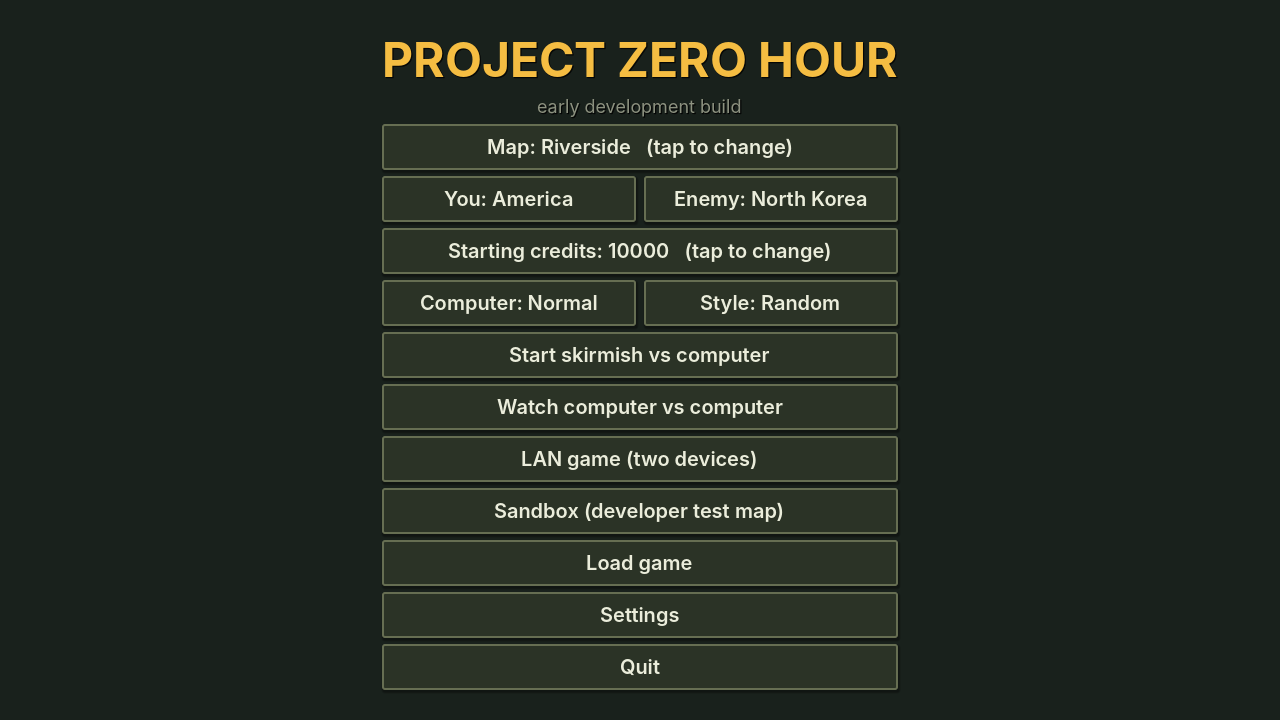
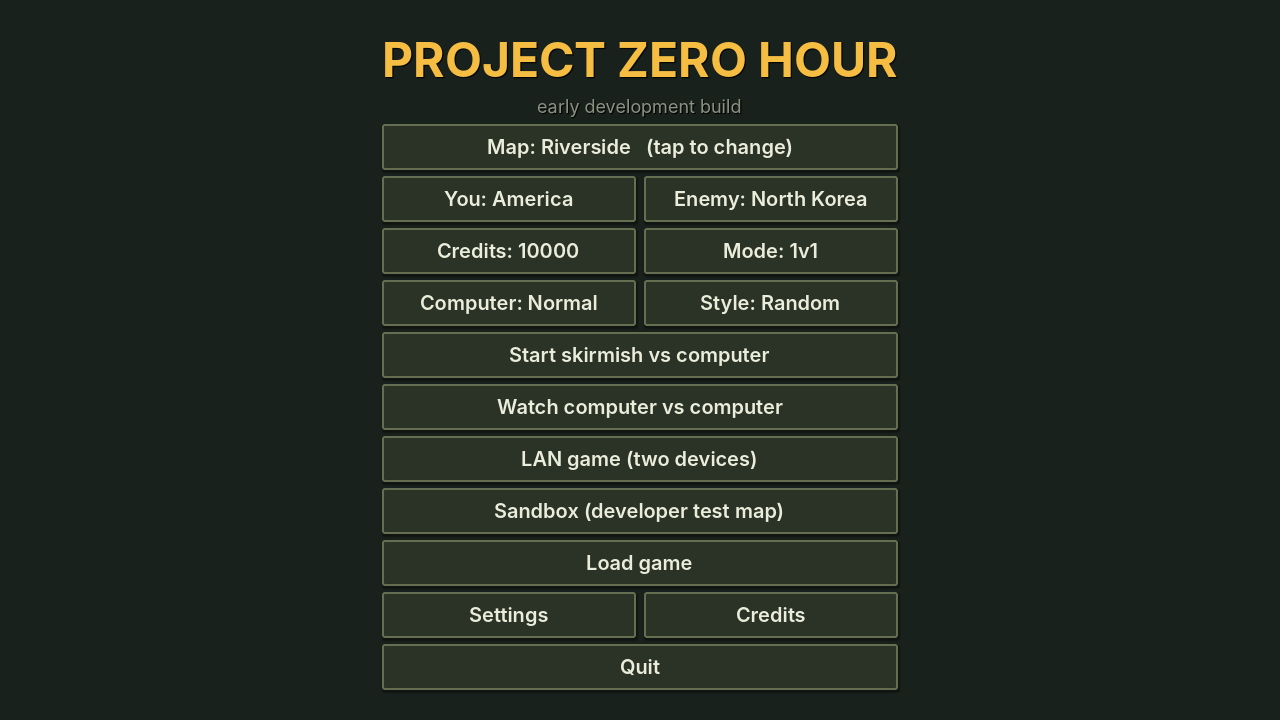
feat(ui): credits screen and legal notices [P4-06]
Credits in the main menu: the game, its code and asset licenses, every
asset author and license (game/data/credits.json, generated from
ASSET_MANIFEST.csv by tools/gen_credits.py; check_repo fails when it is
out of date), and the Godot Engine license and third-party notices.
Settings and Credits share a menu row.

Claude-Session: https://claude.ai/code/session_01KvzxVCAs94MwF5XZ3itDiM

diff --git a/tools/gen_credits.py b/tools/gen_credits.py
@@ -1,0 +1,68 @@
+#!/usr/bin/env python3
+"""Writes game/data/credits.json for the in-game Credits screen (P4-06).
+
+The asset attributions come from ASSET_MANIFEST.csv (one line per author,
+source kind and license), so the credits always match the shipped files;
+tools/check_repo.py fails if credits.json is out of date. Run it after
+adding assets:  python3 tools/gen_credits.py
+"""
+import csv
+import json
+import os
+import sys
+
+ROOT = os.path.normpath(os.path.join(os.path.dirname(os.path.abspath(__file__)), ".."))
+OUT = os.path.join(ROOT, "game", "data", "credits.json")
+
+LICENSE_NAMES = {
+    "CC-BY-SA-4.0": "Creative Commons Attribution-ShareAlike 4.0",
+    "CC-BY-4.0": "Creative Commons Attribution 4.0",
+    "CC0-1.0": "CC0 1.0 (public domain)",
+    "OFL-1.1": "SIL Open Font License 1.1",
+}
+
+
+def _kind(path):
+    parts = path.split("/")
+    return parts[2] if len(parts) > 3 else "files"   # game/assets/<kind>/...
+
+
+def build():
+    groups = {}
+    with open(os.path.join(ROOT, "ASSET_MANIFEST.csv"), newline="", encoding="utf-8") as f:
+        for row in csv.DictReader(f):
+            third = row["generated_by"] == "third-party"
+            source = row["source"] if third else "made for this game"
+            key = (row["author"], row["license"], source)
+            g = groups.setdefault(key, {"kinds": set(), "count": 0})
+            g["kinds"].add(_kind(row["path"]))
+            g["count"] += 1
+    assets = []
+    for (author, lic, source), g in sorted(groups.items(), key=lambda kv: (kv[0][1] != "CC-BY-SA-4.0", kv[0])):
+        assets.append({
+            "author": author,
+            "what": ", ".join(sorted(g["kinds"])),
+            "source": source,
+            "license": LICENSE_NAMES.get(lic, lic),
+        })
+    return {
+        "_doc": "Generated by tools/gen_credits.py from ASSET_MANIFEST.csv; don't edit by hand.",
+        "game": "Project Zero Hour",
+        "made_by": "Project Zero Hour contributors",
+        "code_license": "GNU General Public License v3.0 (see LICENSE)",
+        "asset_license": "Creative Commons Attribution-ShareAlike 4.0, unless listed otherwise below (see ASSETS_LICENSE.md)",
+        "tools": ["Godot Engine (MIT license; its own and third-party notices are under Engine licenses)", "Blender (used to make the placeholder models)"],
+        "assets": assets,
+        "note": "An original game. Not affiliated with any other game, publisher or government.",
+    }
+
+
+def text():
+    return json.dumps(build(), indent=2, ensure_ascii=False) + "\n"
+
+
+if __name__ == "__main__":
+    with open(OUT, "w", encoding="utf-8") as f:
+        f.write(text())
+    print("wrote", os.path.relpath(OUT, ROOT))
+    sys.exit(0)

diff --git a/tools/check_repo.py b/tools/check_repo.py
@@ -75,6 +75,14 @@ def main():
             if r not in rows:
                 problems.append("asset without a manifest row: %s" % r)
 
+    # The in-game credits list every author and license in the manifest (P4-06).
+    credits_path = os.path.join(REPO, "game", "data", "credits.json")
+    sys.path.insert(0, os.path.join(REPO, "tools"))
+    import gen_credits
+    current = open(credits_path, encoding="utf-8").read() if os.path.exists(credits_path) else ""
+    if current != gen_credits.text():
+        problems.append("game/data/credits.json is out of date: run python3 tools/gen_credits.py")
+
     if problems:
         print("check_repo: %d problem(s)" % len(problems))
         for p in problems:

diff --git a/AGENTS.md b/AGENTS.md
@@ -59,6 +59,7 @@ This file is the single source of truth for every AI agent working in this repo:
 | Export hand-made art (`art_source/**/<id>.blend` + provenance `.json`) | `tools/export_blend.sh [--check] [--only ID ...]`; self-test: `tools/test_export_blend.sh` |
 | Rebuild a map's height file | `python3 tools/make_heightmap.py game/data/maps/<id>` (from `terrain_gen` in its `map.json`) |
 | Balance numbers as spreadsheets | `python3 tools/balance_sheet.py export` (writes `balance/units.csv`, `weapons.csv`, `buildings.csv`), edit them, then `python3 tools/balance_sheet.py import balance/units.csv` (`--dry-run` lists the changes first). The JSON stays the source of truth; `balance/` is not committed |
+| Update the in-game credits after adding assets by a new author or of a new kind | `python3 tools/gen_credits.py` (`check_repo` says when it's needed) |
 | Rebuild placeholder sounds | `python3 tools/gen_sounds.py` (needs numpy; writes `game/assets/audio/sfx/` and the manifest rows) |
 | Rebuild the music track | `python3 tools/gen_music.py` (needs numpy and ffmpeg; writes `game/assets/audio/music/main_theme.ogg` and its manifest row) |
 | Re-import assets after adding files | `godot --headless --path game --import` |

diff --git a/tasks/BACKLOG.md b/tasks/BACKLOG.md
@@ -633,7 +633,7 @@ Split big tasks into `P1-04a`, `P1-04b`, … before starting.
 | P4-03 | Gauntlet mode (7 AI commanders with personalities) |
 | P4-04 | Operations campaign (original story) |
 | P4-05 | Store listing assets: screenshots, trailer captured in-game |
-| P4-06 | Credits screen and legal notices |
+| P4-06 | Credits screen and legal notices — ✅ v1 2026-11-28 (Claude Code): Credits in the main menu (`CreditsMenu`): the game, its licenses, every asset author and license from `game/data/credits.json` (generated from the manifest by `tools/gen_credits.py`; `check_repo` fails when it is stale), and the Godot Engine license and third-party notices. Left for the owner: a privacy policy (P4-07) |
 | P4-07 | Legal review of the name and trademarks; privacy policy |
 | P4-08 | Launch checklist ([08-testing-and-qa.md](../docs/08-testing-and-qa.md)) |
 
